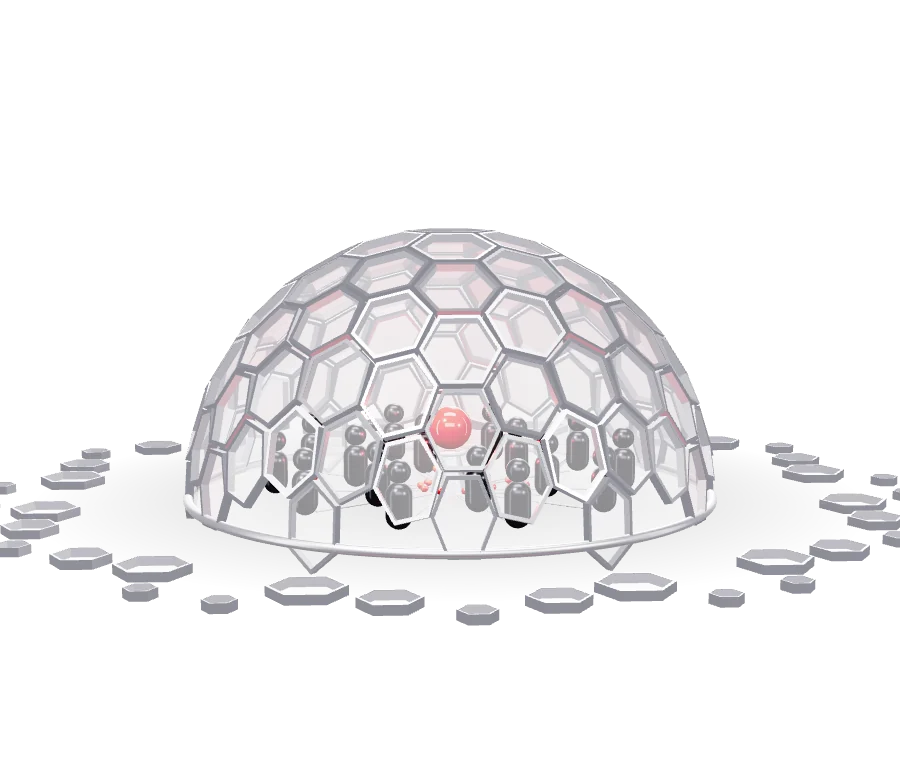
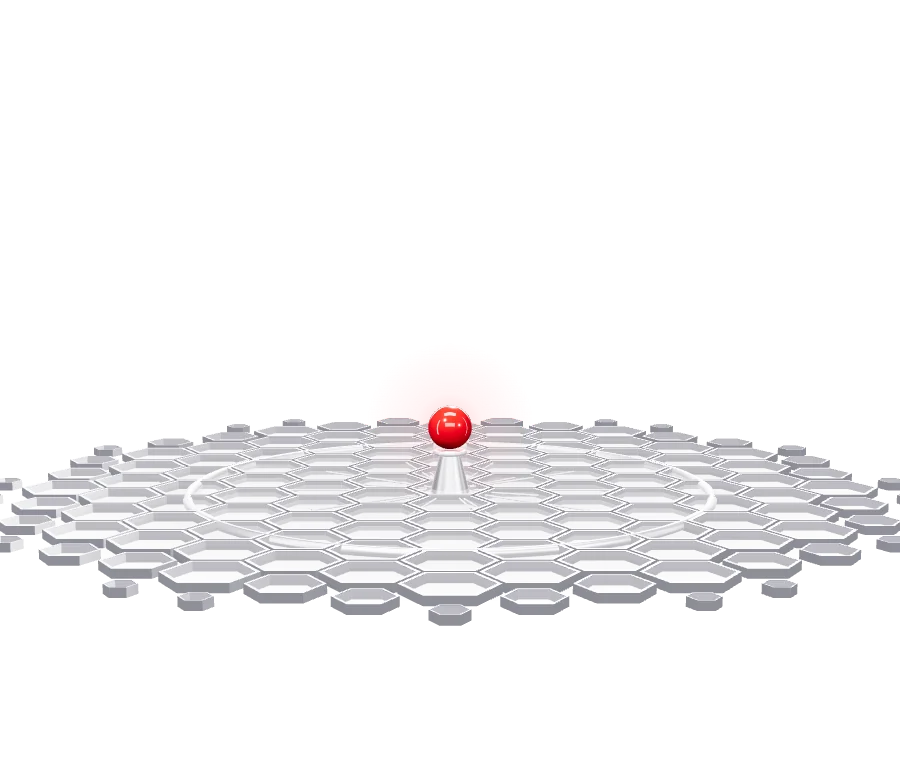
Trust dome: build from the start when scrolled to
The scene now holds its first frame (the flat hex field, which is also the
poster) and plays the whole build - partners appear, tiles rise into the
dome, stat tiles light, leader lines and stats - once half the stage is on
screen. Before, a frame loaded in view started on the finished dome, and one
loaded early began its clock 80px before the viewport. Stats already on
screen when the scene loads stay visible; a click replays everything.

Claude-Session: https://claude.ai/code/session_01JhZ5DB5vxLeXKkYquUUDqb

Changed region(s): [[0.0, 0.2769, 1.0, 0.8]]

diff --git a/site/embeds/trust-dome.html b/site/embeds/trust-dome.html
@@ -10,10 +10,10 @@
   The four stats are page text next to this frame (siblings with [data-stat]); while they sit in
   the stage corners this frame fades them in and draws their leader lines to the dome. On phones
   they sit under the stage and are left alone.
-  Loaded off screen, the scene starts from the flat field and builds when scrolled to; loaded in
-  view (or under reduced motion), it starts finished, matching the poster. A click replays it.
+  The scene holds its first frame (the flat field, like the poster) and plays the build from the
+  start once half the stage is on screen; reduced motion shows the finished dome. A click replays it.
   ?lang=xx   risk labels from i18n.js (embed.dome.r1 … r4)
-  ?still     the finished dome, no overlay — the poster (tools/render-program-posters.mjs)
+  ?still     the first frame (flat field), no overlay — the poster (tools/render-program-posters.mjs)
   The page sets window.__tqPaused while the block is off screen; the first drawn frame posts
   {tqReady:true} so the page fades this frame in over its poster.
 -->
@@ -215,7 +215,7 @@ const calls = STILL ? [] : stats.slice(0, 4).map((st) => ({
   e: mk('circle', { r: 3.5, fill: '#E7131B' }),
 }));
 /* stats in the stage corners (absolutely placed) get callouts; stacked under the stage (phones) they don't */
-let callouts = false;
+let callouts = false, keepStats = false;
 const measure = () => {
   callouts = calls.length === 4 && calls.every((c) => getComputedStyle(c.st).position === 'absolute');
   svg.style.display = callouts ? '' : 'none';
@@ -238,7 +238,7 @@ const callout = (k, wp, op, t) => {
   c.e.style.opacity = on; c.ring.style.opacity = on;
   c.ring.setAttribute('r', 7 + 3 * Math.sin(t * 3 + k));
   const o = Math.round(clamp01(op) * 100) / 100;
-  if (o !== c.op) { c.op = o; c.st.style.opacity = o; c.st.style.transform = o < 1 ? `translateY(${((1 - easeOut(o)) * 10).toFixed(1)}px)` : ''; }
+  if (o !== c.op && !keepStats) { c.op = o; c.st.style.opacity = o; c.st.style.transform = o < 1 ? `translateY(${((1 - easeOut(o)) * 10).toFixed(1)}px)` : ''; }
 };
 
 /* ---- the scene: hex field → dome, partners inside, risks bouncing off ---------------------- */
@@ -382,13 +382,26 @@ const resize = () => {
 new ResizeObserver(resize).observe(canvas); resize();
 try { parent.document.fonts.ready.then(measure); } catch (e) {}
 
-const inView = () => {
-  try { const r = window.frameElement.getBoundingClientRect(); return r.top < parent.innerHeight && r.bottom > 0; } catch (e) { return true; }
+/* How much of the stage is on screen (0…1). */
+const shownPart = () => {
+  try {
+    const r = window.frameElement.getBoundingClientRect(), vh = parent.innerHeight;
+    return Math.max(0, Math.min(r.bottom, vh) - Math.max(r.top, 0)) / (r.height || 1);
+  } catch (e) { return 1; }
 };
-/* finished when it shows up in view (or for reduced motion): no flash of the stats */
-let clock = STILL || reduce || inView() ? FINISHED : 0;
-const paused = () => (window.__tqPaused === undefined ? !inView() : window.__tqPaused) || document.hidden;
-const replay = () => { clock = 0; };
+/* The build waits on its first frame (the flat field, same as the poster) and starts when
+   half the stage is on screen, so the visitor always sees the dome assemble. Reduced
+   motion skips straight to the finished dome. */
+const START_AT = 0.5;
+let clock = 0, started = STILL || reduce;
+if (reduce && !STILL) clock = FINISHED;
+/* stats already on screen when the scene first draws keep showing (no flash); otherwise
+   they appear one by one as their tiles light up */
+const statOnScreen = () => {
+  try { const vh = parent.innerHeight; return stats.some((st) => { const r = st.getBoundingClientRect(); return r.bottom > 0 && r.top < vh; }); } catch (e) { return false; }
+};
+const paused = () => (window.__tqPaused === undefined ? shownPart() === 0 : window.__tqPaused) || document.hidden;
+const replay = () => { clock = 0; started = true; keepStats = false; };
 if (!STILL) {
   document.addEventListener('click', replay);
   if (host) host.addEventListener('click', (e) => { if (e.target.closest('[data-stat]')) replay(); });
@@ -397,6 +410,7 @@ if (!STILL) {
 let shown = false, last = performance.now(), sinceMeasure = 0;
 const draw = (dt) => {
   tick(clock, dt); renderer.render(scene, camera);
+  window.__tqDomeT = clock;   /* scene time, for tools/tests */
   if (!shown) {
     shown = true; window.__tqArt = true;
     requestAnimationFrame(() => { if (window.parent !== window) { try { parent.postMessage({ tqReady: true }, location.origin); } catch (e) {} } });
@@ -404,10 +418,14 @@ const draw = (dt) => {
 };
 const frame = (now) => {
   const dt = Math.min(0.05, (now - last) / 1000) * SPEED; last = now;
-  if (W && (!shown || !paused())) {
-    if (shown) clock += dt;
-    if ((sinceMeasure += dt) > 1) { sinceMeasure = 0; measure(); }
-    draw(shown ? dt : 0);
+  if (W && !shown) { keepStats = statOnScreen(); draw(0); }
+  else if (W && !paused()) {
+    if (!started && shownPart() >= START_AT) started = true;
+    if (started) {
+      clock += dt;
+      if ((sinceMeasure += dt) > 1) { sinceMeasure = 0; measure(); }
+      draw(dt);
+    }
   }
   requestAnimationFrame(frame);
 };

diff --git a/site/th/programs/index.html b/site/th/programs/index.html
@@ -1672,8 +1672,8 @@ h1, h2 { line-height: 1.2 !important; }
         </div>
         <div class="tp-dome" data-dome>
           <div class="tp-dome__stage">
-            <img class="tp-dome__poster" data-poster src="../../assets/posters/trust-dome.webp?v=2cf4610681" alt="" width="900" height="780" loading="lazy" decoding="async">
-            <iframe class="tp-dome__3d" data-embed data-src="../../embeds/trust-dome.html?lang=th&v=1c49cdd778" title="ทำไมต้อง TradeQuo" aria-hidden="true" tabindex="-1"></iframe>
+            <img class="tp-dome__poster" data-poster src="../../assets/posters/trust-dome.webp?v=cd64cd2f23" alt="" width="900" height="780" loading="lazy" decoding="async">
+            <iframe class="tp-dome__3d" data-embed data-src="../../embeds/trust-dome.html?lang=th&v=bcf729ca13" title="ทำไมต้อง TradeQuo" aria-hidden="true" tabindex="-1"></iframe>
           </div>
           <div class="tp-dome__stat" data-stat="tl"><b>800K<i>+</i></b><span>ลูกค้าเทรดเดอร์</span></div>
           <div class="tp-dome__stat" data-stat="tr"><b>4.9<i>★</i></b><span>คะแนน Trustpilot</span></div>

diff --git a/site/uk/programs/index.html b/site/uk/programs/index.html
@@ -1680,8 +1680,8 @@ a:focus-visible, button:focus-visible { outline: 2px solid #e7131b; outline-offs
         </div>
         <div class="tp-dome" data-dome>
           <div class="tp-dome__stage">
-            <img class="tp-dome__poster" data-poster src="../../assets/posters/trust-dome.webp?v=2cf4610681" alt="" width="900" height="780" loading="lazy" decoding="async">
-            <iframe class="tp-dome__3d" data-embed data-src="../../embeds/trust-dome.html?lang=uk&v=1c49cdd778" title="ЧОМУ TRADEQUO" aria-hidden="true" tabindex="-1"></iframe>
+            <img class="tp-dome__poster" data-poster src="../../assets/posters/trust-dome.webp?v=cd64cd2f23" alt="" width="900" height="780" loading="lazy" decoding="async">
+            <iframe class="tp-dome__3d" data-embed data-src="../../embeds/trust-dome.html?lang=uk&v=bcf729ca13" title="ЧОМУ TRADEQUO" aria-hidden="true" tabindex="-1"></iframe>
           </div>
           <div class="tp-dome__stat" data-stat="tl"><b>800K<i>+</i></b><span>КЛІЄНТІВ, ЩО ТОРГУЮТЬ</span></div>
           <div class="tp-dome__stat" data-stat="tr"><b>4.9<i>★</i></b><span>РЕЙТИНГ TRUSTPILOT</span></div>

diff --git a/site/vi/programs/index.html b/site/vi/programs/index.html
@@ -1679,8 +1679,8 @@ a:focus-visible, button:focus-visible { outline: 2px solid #e7131b; outline-offs
         </div>
         <div class="tp-dome" data-dome>
           <div class="tp-dome__stage">
-            <img class="tp-dome__poster" data-poster src="../../assets/posters/trust-dome.webp?v=2cf4610681" alt="" width="900" height="780" loading="lazy" decoding="async">
-            <iframe class="tp-dome__3d" data-embed data-src="../../embeds/trust-dome.html?lang=vi&v=1c49cdd778" title="VÌ SAO CHỌN TRADEQUO" aria-hidden="true" tabindex="-1"></iframe>
+            <img class="tp-dome__poster" data-poster src="../../assets/posters/trust-dome.webp?v=cd64cd2f23" alt="" width="900" height="780" loading="lazy" decoding="async">
+            <iframe class="tp-dome__3d" data-embed data-src="../../embeds/trust-dome.html?lang=vi&v=bcf729ca13" title="VÌ SAO CHỌN TRADEQUO" aria-hidden="true" tabindex="-1"></iframe>
           </div>
           <div class="tp-dome__stat" data-stat="tl"><b>800K<i>+</i></b><span>KHÁCH HÀNG GIAO DỊCH</span></div>
           <div class="tp-dome__stat" data-stat="tr"><b>4.9<i>★</i></b><span>ĐIỂM TRUSTPILOT</span></div>

diff --git a/site/pl/programs/index.html b/site/pl/programs/index.html
@@ -1664,8 +1664,8 @@ a:focus-visible, button:focus-visible { outline: 2px solid #e7131b; outline-offs
         </div>
         <div class="tp-dome" data-dome>
           <div class="tp-dome__stage">
-            <img class="tp-dome__poster" data-poster src="../../assets/posters/trust-dome.webp?v=2cf4610681" alt="" width="900" height="780" loading="lazy" decoding="async">
-            <iframe class="tp-dome__3d" data-embed data-src="../../embeds/trust-dome.html?lang=pl&v=1c49cdd778" title="DLACZEGO TRADEQUO" aria-hidden="true" tabindex="-1"></iframe>
+            <img class="tp-dome__poster" data-poster src="../../assets/posters/trust-dome.webp?v=cd64cd2f23" alt="" width="900" height="780" loading="lazy" decoding="async">
+            <iframe class="tp-dome__3d" data-embed data-src="../../embeds/trust-dome.html?lang=pl&v=bcf729ca13" title="DLACZEGO TRADEQUO" aria-hidden="true" tabindex="-1"></iframe>
           </div>
           <div class="tp-dome__stat" data-stat="tl"><b>800K<i>+</i></b><span>HANDLUJĄCYCH KLIENTÓW</span></div>
           <div class="tp-dome__stat" data-stat="tr"><b>4.9<i>★</i></b><span>OCENA NA TRUSTPILOT</span></div>

diff --git a/site/es/programs/index.html b/site/es/programs/index.html
@@ -1664,8 +1664,8 @@ a:focus-visible, button:focus-visible { outline: 2px solid #e7131b; outline-offs
         </div>
         <div class="tp-dome" data-dome>
           <div class="tp-dome__stage">
-            <img class="tp-dome__poster" data-poster src="../../assets/posters/trust-dome.webp?v=2cf4610681" alt="" width="900" height="780" loading="lazy" decoding="async">
-            <iframe class="tp-dome__3d" data-embed data-src="../../embeds/trust-dome.html?lang=es&v=1c49cdd778" title="POR QUÉ TRADEQUO" aria-hidden="true" tabindex="-1"></iframe>
+            <img class="tp-dome__poster" data-poster src="../../assets/posters/trust-dome.webp?v=cd64cd2f23" alt="" width="900" height="780" loading="lazy" decoding="async">
+            <iframe class="tp-dome__3d" data-embed data-src="../../embeds/trust-dome.html?lang=es&v=bcf729ca13" title="POR QUÉ TRADEQUO" aria-hidden="true" tabindex="-1"></iframe>
           </div>
           <div class="tp-dome__stat" data-stat="tl"><b>800K<i>+</i></b><span>TRADERS CLIENTES</span></div>
           <div class="tp-dome__stat" data-stat="tr"><b>4.9<i>★</i></b><span>PUNTUACIÓN TRUSTPILOT</span></div>

diff --git a/site/pt/programs/index.html b/site/pt/programs/index.html
@@ -1664,8 +1664,8 @@ a:focus-visible, button:focus-visible { outline: 2px solid #e7131b; outline-offs
         </div>
         <div class="tp-dome" data-dome>
           <div class="tp-dome__stage">
-            <img class="tp-dome__poster" data-poster src="../../assets/posters/trust-dome.webp?v=2cf4610681" alt="" width="900" height="780" loading="lazy" decoding="async">
-            <iframe class="tp-dome__3d" data-embed data-src="../../embeds/trust-dome.html?lang=pt&v=1c49cdd778" title="POR QUE A TRADEQUO" aria-hidden="true" tabindex="-1"></iframe>
+            <img class="tp-dome__poster" data-poster src="../../assets/posters/trust-dome.webp?v=cd64cd2f23" alt="" width="900" height="780" loading="lazy" decoding="async">
+            <iframe class="tp-dome__3d" data-embed data-src="../../embeds/trust-dome.html?lang=pt&v=bcf729ca13" title="POR QUE A TRADEQUO" aria-hidden="true" tabindex="-1"></iframe>
           </div>
           <div class="tp-dome__stat" data-stat="tl"><b>800K<i>+</i></b><span>TRADERS CLIENTES</span></div>
           <div class="tp-dome__stat" data-stat="tr"><b>4.9<i>★</i></b><span>NOTA NO TRUSTPILOT</span></div>

diff --git a/site/it/programs/index.html b/site/it/programs/index.html
@@ -1664,8 +1664,8 @@ a:focus-visible, button:focus-visible { outline: 2px solid #e7131b; outline-offs
         </div>
         <div class="tp-dome" data-dome>
           <div class="tp-dome__stage">
-            <img class="tp-dome__poster" data-poster src="../../assets/posters/trust-dome.webp?v=2cf4610681" alt="" width="900" height="780" loading="lazy" decoding="async">
-            <iframe class="tp-dome__3d" data-embed data-src="../../embeds/trust-dome.html?lang=it&v=1c49cdd778" title="PERCHÉ TRADEQUO" aria-hidden="true" tabindex="-1"></iframe>
+            <img class="tp-dome__poster" data-poster src="../../assets/posters/trust-dome.webp?v=cd64cd2f23" alt="" width="900" height="780" loading="lazy" decoding="async">
+            <iframe class="tp-dome__3d" data-embed data-src="../../embeds/trust-dome.html?lang=it&v=bcf729ca13" title="PERCHÉ TRADEQUO" aria-hidden="true" tabindex="-1"></iframe>
           </div>
           <div class="tp-dome__stat" data-stat="tl"><b>800K<i>+</i></b><span>TRADER CLIENTI</span></div>
           <div class="tp-dome__stat" data-stat="tr"><b>4.9<i>★</i></b><span>VALUTAZIONE TRUSTPILOT</span></div>

diff --git a/site/de/programs/index.html b/site/de/programs/index.html
@@ -1664,8 +1664,8 @@ a:focus-visible, button:focus-visible { outline: 2px solid #e7131b; outline-offs
         </div>
         <div class="tp-dome" data-dome>
           <div class="tp-dome__stage">
-            <img class="tp-dome__poster" data-poster src="../../assets/posters/trust-dome.webp?v=2cf4610681" alt="" width="900" height="780" loading="lazy" decoding="async">
-            <iframe class="tp-dome__3d" data-embed data-src="../../embeds/trust-dome.html?lang=de&v=1c49cdd778" title="WARUM TRADEQUO" aria-hidden="true" tabindex="-1"></iframe>
+            <img class="tp-dome__poster" data-poster src="../../assets/posters/trust-dome.webp?v=cd64cd2f23" alt="" width="900" height="780" loading="lazy" decoding="async">
+            <iframe class="tp-dome__3d" data-embed data-src="../../embeds/trust-dome.html?lang=de&v=bcf729ca13" title="WARUM TRADEQUO" aria-hidden="true" tabindex="-1"></iframe>
           </div>
           <div class="tp-dome__stat" data-stat="tl"><b>800K<i>+</i></b><span>HANDELNDE KUNDEN</span></div>
           <div class="tp-dome__stat" data-stat="tr"><b>4.9<i>★</i></b><span>TRUSTPILOT-BEWERTUNG</span></div>

diff --git a/site/fr/programs/index.html b/site/fr/programs/index.html
@@ -1664,8 +1664,8 @@ a:focus-visible, button:focus-visible { outline: 2px solid #e7131b; outline-offs
         </div>
         <div class="tp-dome" data-dome>
           <div class="tp-dome__stage">
-            <img class="tp-dome__poster" data-poster src="../../assets/posters/trust-dome.webp?v=2cf4610681" alt="" width="900" height="780" loading="lazy" decoding="async">
-            <iframe class="tp-dome__3d" data-embed data-src="../../embeds/trust-dome.html?lang=fr&v=1c49cdd778" title="POURQUOI TRADEQUO" aria-hidden="true" tabindex="-1"></iframe>
+            <img class="tp-dome__poster" data-poster src="../../assets/posters/trust-dome.webp?v=cd64cd2f23" alt="" width="900" height="780" loading="lazy" decoding="async">
+            <iframe class="tp-dome__3d" data-embed data-src="../../embeds/trust-dome.html?lang=fr&v=bcf729ca13" title="POURQUOI TRADEQUO" aria-hidden="true" tabindex="-1"></iframe>
           </div>
           <div class="tp-dome__stat" data-stat="tl"><b>800K<i>+</i></b><span>TRADERS CLIENTS</span></div>
           <div class="tp-dome__stat" data-stat="tr"><b>4.9<i>★</i></b><span>NOTE TRUSTPILOT</span></div>

diff --git a/site/tr/programs/index.html b/site/tr/programs/index.html
@@ -1664,8 +1664,8 @@ a:focus-visible, button:focus-visible { outline: 2px solid #e7131b; outline-offs
         </div>
         <div class="tp-dome" data-dome>
           <div class="tp-dome__stage">
-            <img class="tp-dome__poster" data-poster src="../../assets/posters/trust-dome.webp?v=2cf4610681" alt="" width="900" height="780" loading="lazy" decoding="async">
-            <iframe class="tp-dome__3d" data-embed data-src="../../embeds/trust-dome.html?lang=tr&v=1c49cdd778" title="NEDEN TRADEQUO" aria-hidden="true" tabindex="-1"></iframe>
+            <img class="tp-dome__poster" data-poster src="../../assets/posters/trust-dome.webp?v=cd64cd2f23" alt="" width="900" height="780" loading="lazy" decoding="async">
+            <iframe class="tp-dome__3d" data-embed data-src="../../embeds/trust-dome.html?lang=tr&v=bcf729ca13" title="NEDEN TRADEQUO" aria-hidden="true" tabindex="-1"></iframe>
           </div>
           <div class="tp-dome__stat" data-stat="tl"><b>800K<i>+</i></b><span>MÜŞTERİ YATIRIMCI</span></div>
           <div class="tp-dome__stat" data-stat="tr"><b>4.9<i>★</i></b><span>TRUSTPILOT PUANI</span></div>

diff --git a/site/id/programs/index.html b/site/id/programs/index.html
@@ -1664,8 +1664,8 @@ a:focus-visible, button:focus-visible { outline: 2px solid #e7131b; outline-offs
         </div>
         <div class="tp-dome" data-dome>
           <div class="tp-dome__stage">
-            <img class="tp-dome__poster" data-poster src="../../assets/posters/trust-dome.webp?v=2cf4610681" alt="" width="900" height="780" loading="lazy" decoding="async">
-            <iframe class="tp-dome__3d" data-embed data-src="../../embeds/trust-dome.html?lang=id&v=1c49cdd778" title="MENGAPA TRADEQUO" aria-hidden="true" tabindex="-1"></iframe>
+            <img class="tp-dome__poster" data-poster src="../../assets/posters/trust-dome.webp?v=cd64cd2f23" alt="" width="900" height="780" loading="lazy" decoding="async">
+            <iframe class="tp-dome__3d" data-embed data-src="../../embeds/trust-dome.html?lang=id&v=bcf729ca13" title="MENGAPA TRADEQUO" aria-hidden="true" tabindex="-1"></iframe>
           </div>
           <div class="tp-dome__stat" data-stat="tl"><b>800K<i>+</i></b><span>TRADER KLIEN</span></div>
           <div class="tp-dome__stat" data-stat="tr"><b>4.9<i>★</i></b><span>RATING TRUSTPILOT</span></div>
